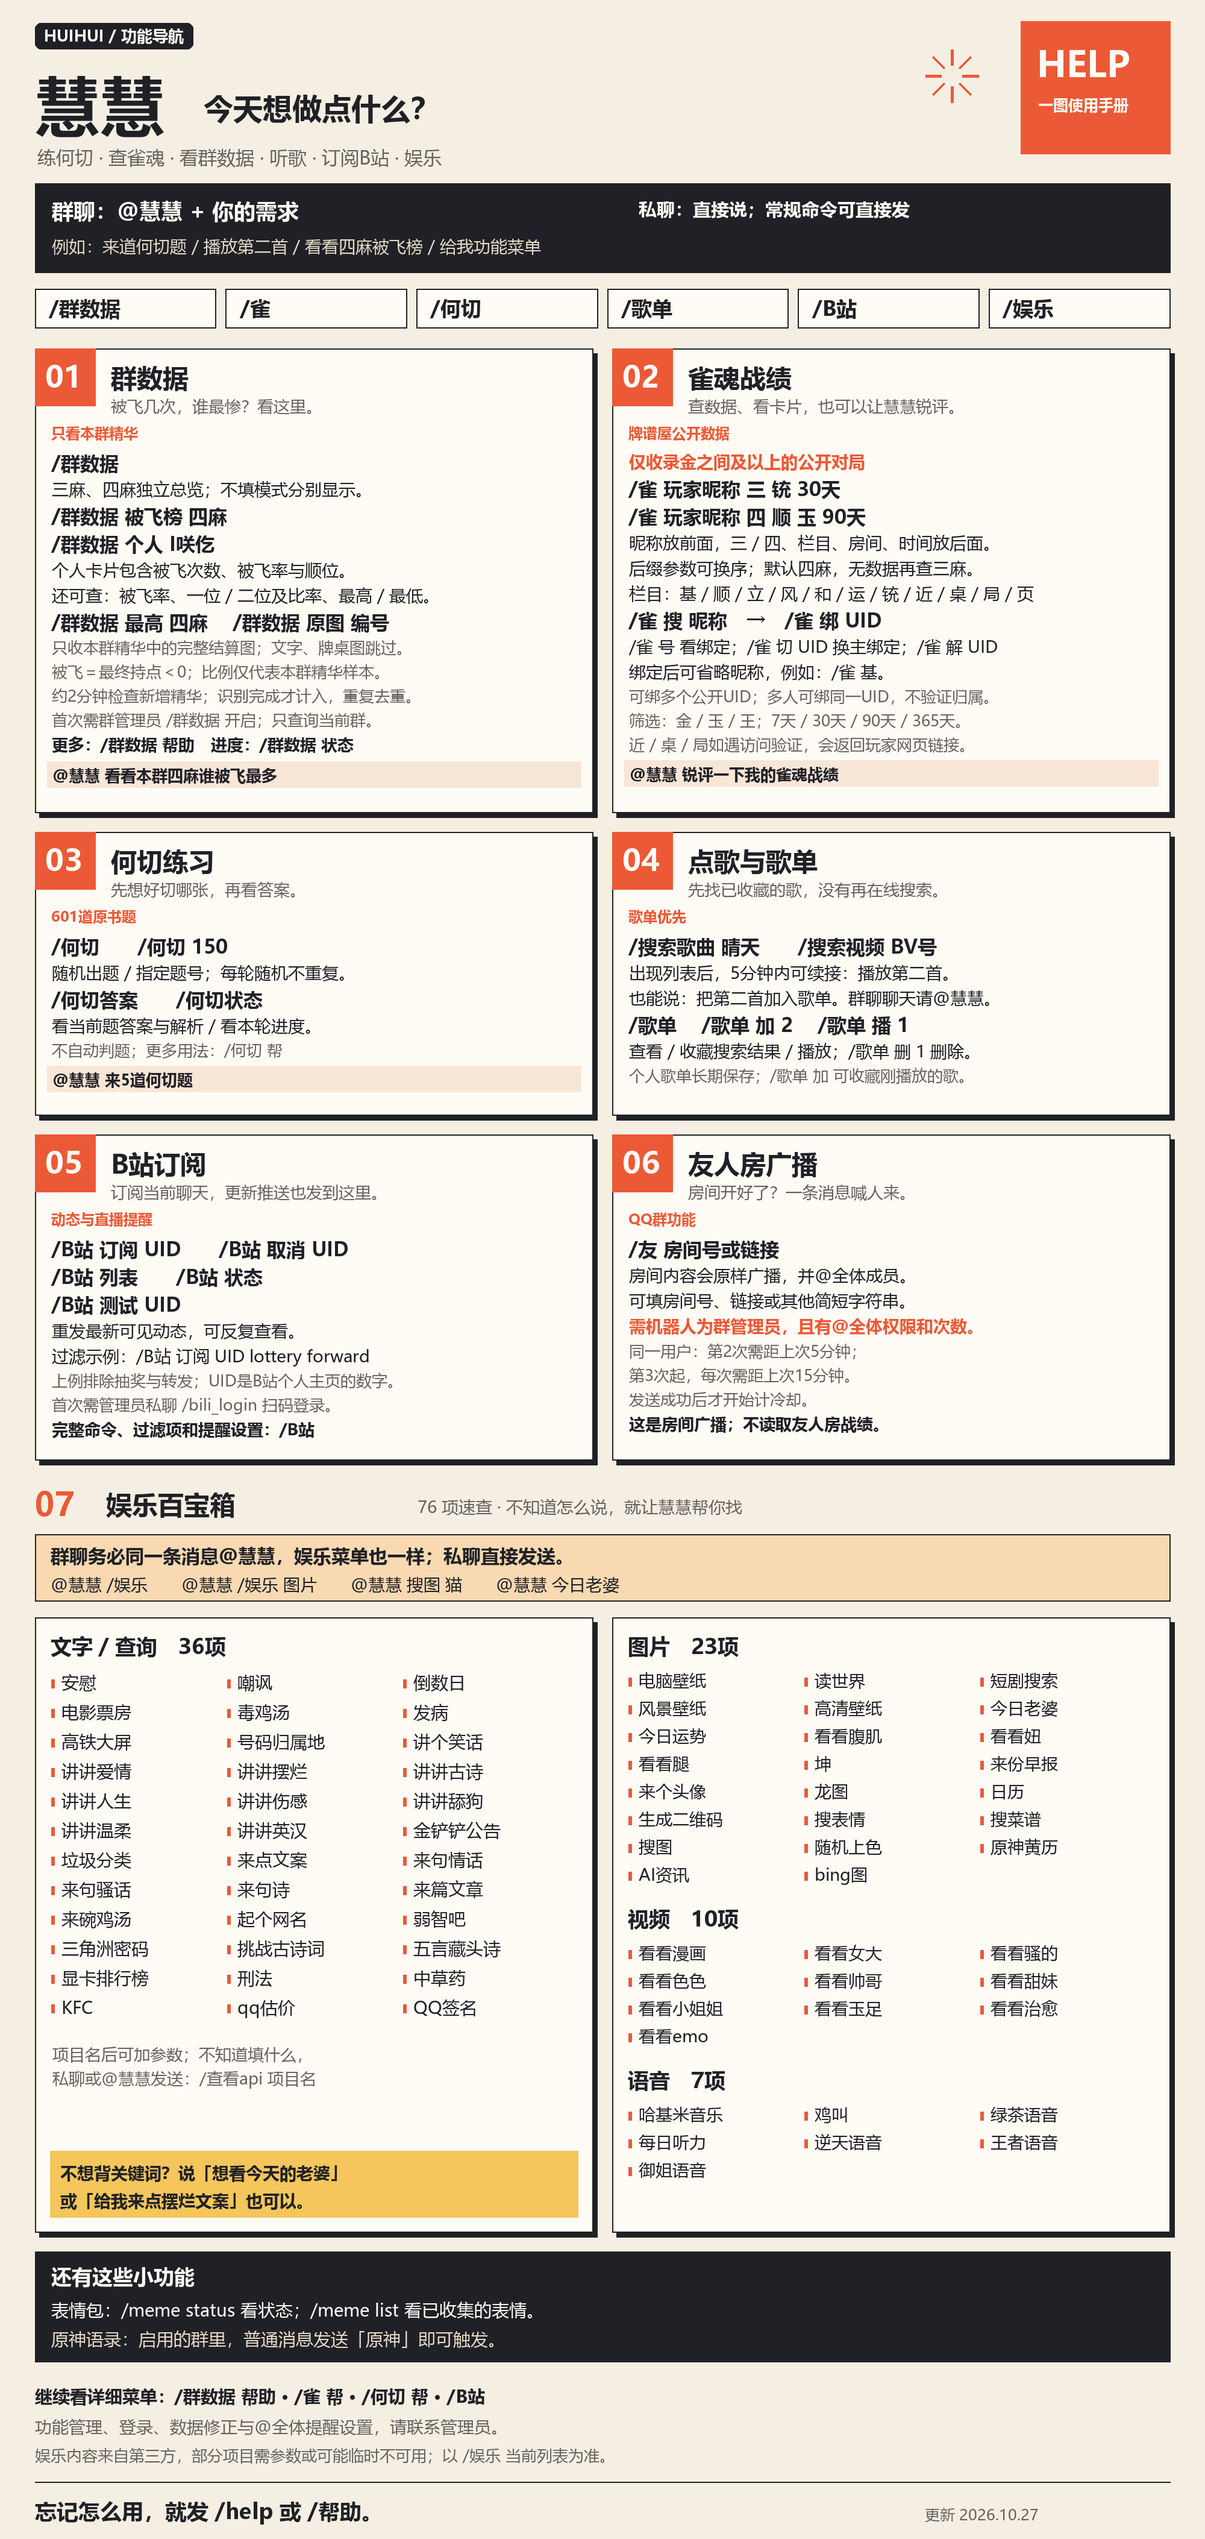
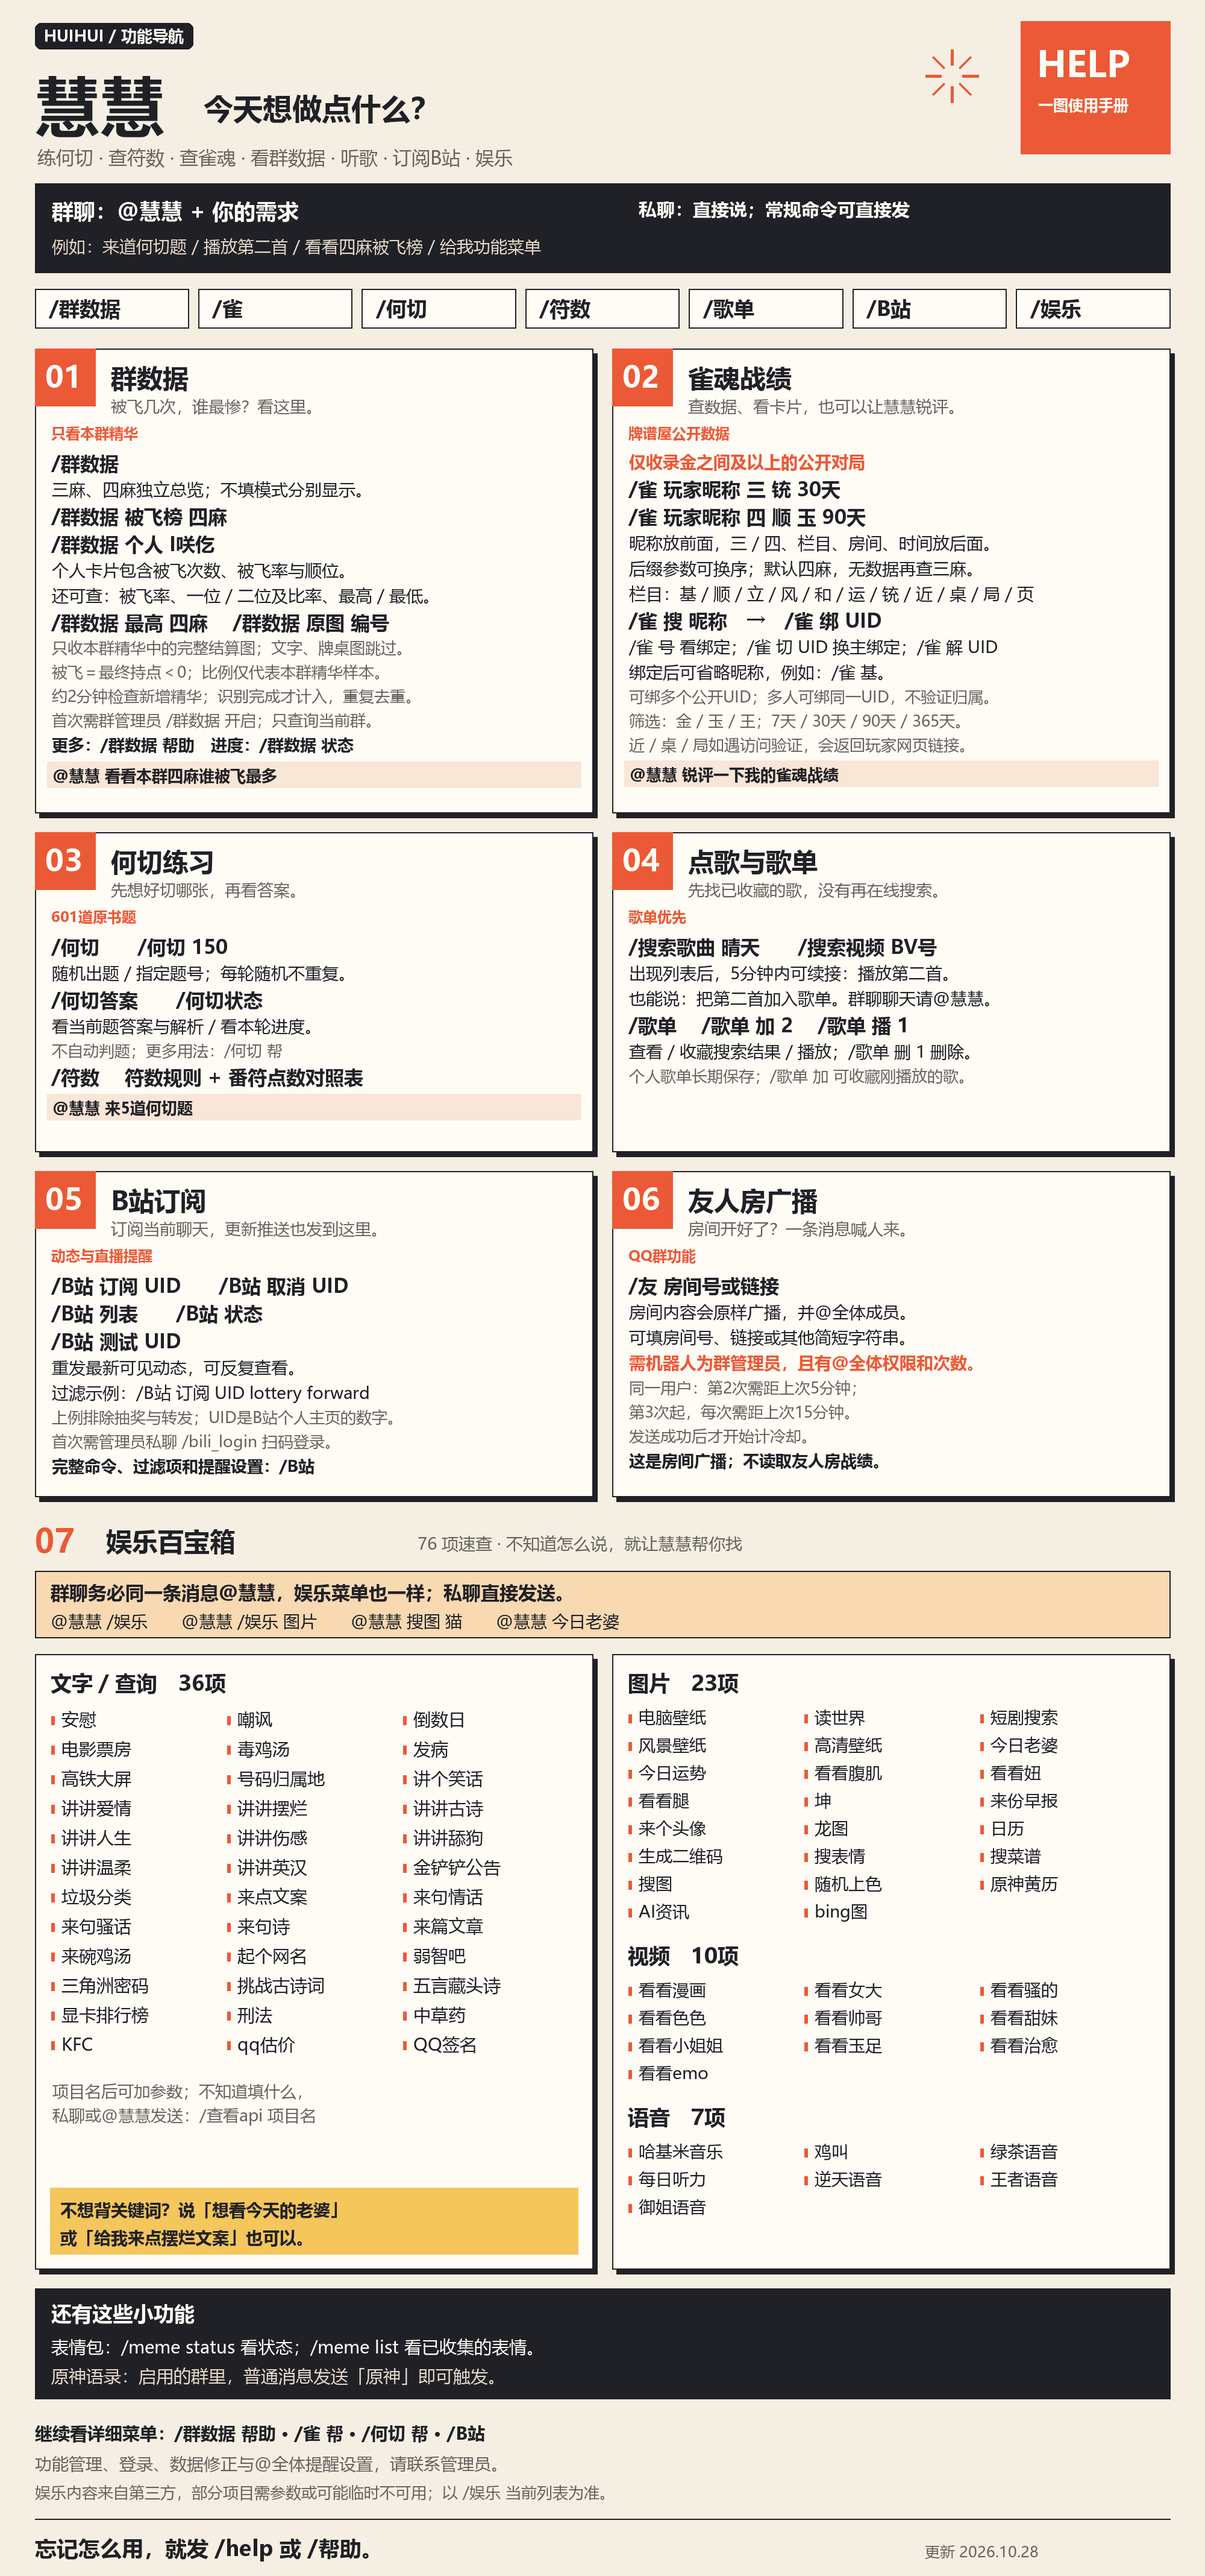
Add fu reference command with two original tables

Changed region(s): [[0.031, 0.0311, 0.992, 0.9953], [0.806, 0.0933, 0.899, 0.1244], [0.868, 0.0311, 0.93, 0.0622]]

diff --git a/tools/build_user_help.py b/tools/build_user_help.py
@@ -8,7 +8,7 @@ from PIL import Image,ImageDraw,ImageFont
 ROOT=Path(__file__).resolve().parents[1]
 W=2000;M=58;GAP=32;CW=(W-M*2-GAP)//2
 PAPER='#F5EFE3';INK='#202126';ORANGE='#EC5936';MUTED='#66635F';LINE='#D8CFC0';WHITE='#FFFCF6';GOLD='#F4C65B'
-EDITION='2026.10.27'
+EDITION='2026.10.28'
 MODULES=[
  {'id':'01','title':'群数据','tag':'只看本群精华','subtitle':'被飞几次，谁最惨？看这里。','height':770,'lines':[
   ('cmd','/群数据'),('small','三麻、四麻独立总览；不填模式分别显示。'),
@@ -36,14 +36,15 @@ MODULES=[
   ('note','筛选：金 / 玉 / 王；7天 / 30天 / 90天 / 365天。'),
   ('note','近 / 桌 / 局如遇访问验证，会返回玩家网页链接。')],
   'example':'@慧慧 锐评一下我的雀魂战绩'},
- {'id':'03','title':'何切练习','tag':'601道原书题','subtitle':'先想好切哪张，再看答案。','height':470,'lines':[
+ {'id':'03','title':'何切练习','tag':'601道原书题','subtitle':'先想好切哪张，再看答案。','height':530,'lines':[
   ('cmd','/何切　　/何切 150'),
   ('small','随机出题 / 指定题号；每轮随机不重复。'),
   ('cmd','/何切答案　　/何切状态'),
   ('small','看当前题答案与解析 / 看本轮进度。'),
-  ('note','不自动判题；更多用法：/何切 帮')],
+  ('note','不自动判题；更多用法：/何切 帮'),
+  ('cmd','/符数　 符数规则 + 番符点数对照表')],
   'example':'@慧慧 来5道何切题'},
- {'id':'04','title':'点歌与歌单','tag':'歌单优先','subtitle':'先找已收藏的歌，没有再在线搜索。','height':470,'lines':[
+ {'id':'04','title':'点歌与歌单','tag':'歌单优先','subtitle':'先找已收藏的歌，没有再在线搜索。','height':530,'lines':[
   ('cmd','/搜索歌曲 晴天　　/搜索视频 BV号'),
   ('small','出现列表后，5分钟内可续接：播放第二首。'),
   ('small','也能说：把第二首加入歌单。群聊聊天请@慧慧。'),
@@ -140,7 +141,7 @@ def render(path,catalog_path=None):
  # Editorial cover with a drawn magic burst: type stays crisp at original size.
  p.pill(M,38,'HUIHUI / 功能导航',WHITE,INK,26)
  p.text(M,100,'慧慧',108,True,width=650);p.text(M+280,146,'今天想做点什么？',49,True,width=1000)
- p.text(M+4,240,'练何切 · 查雀魂 · 看群数据 · 听歌 · 订阅B站 · 娱乐',31,color=MUTED,width=1600)
+ p.text(M+4,240,'练何切 · 查符数 · 查雀魂 · 看群数据 · 听歌 · 订阅B站 · 娱乐',31,color=MUTED,width=1600)
  d.rectangle((1694,35,1942,255),fill=ORANGE)
  p.text(1721,64,'HELP',60,True,WHITE,width=200);p.text(1723,156,'一图使用手册',25,True,WHITE,width=200)
  # Star / rays are decoration rather than an image-generated character.
@@ -151,8 +152,8 @@ def render(path,catalog_path=None):
  p.text(M+28,324,'群聊：@慧慧 + 你的需求',36,True,WHITE,width=900)
  p.text(1060,326,'私聊：直接说；常规命令可直接发',30,True,WHITE,width=850)
  p.text(M+28,389,'例如：来道何切题 / 播放第二首 / 看看四麻被飞榜 / 给我功能菜单',28,color='#E6D9C8',width=1800)
- commands=['/群数据','/雀','/何切','/歌单','/B站','/娱乐']
- qw=(W-2*M-5*16)/6
+ commands=['/群数据','/雀','/何切','/符数','/歌单','/B站','/娱乐']
+ qw=(W-2*M-(len(commands)-1)*16)/len(commands)
  for i,s in enumerate(commands):
   x=M+i*(qw+16);d.rectangle((x,479,x+qw,544),fill=WHITE,outline=INK,width=2);p.text(x+24,488,s,34,True,width=qw-40)
  y=578

diff --git a/main.py b/main.py
@@ -366,7 +366,7 @@ class MahjongHelperPlugin(Star):
         """发送机器人已有的图片功能菜单或帮助，不新增功能。
 
         Args:
-            section(string): all总功能菜单，entertainment娱乐菜单，mahjong雀魂菜单，quiz何切帮助，bilibili或bili为B站订阅帮助，group_data为群精华对局统计帮助。
+            section(string): all总功能菜单，entertainment娱乐菜单，mahjong雀魂菜单，quiz何切帮助，bilibili或bili为B站订阅帮助，group_data为群精华对局统计帮助，fu为符数规则和番符点数速查图。
             category(string): 娱乐分类，可留空，或文字、图片、视频、语音。
         """
         if not self._claim_ai_action(event):
@@ -387,10 +387,12 @@ class MahjongHelperPlugin(Star):
             results = self.koromo_menu(event, "")
         elif section == "quiz":
             results = self.nanikiru(event, "帮助")
+        elif section in {"fu", "符数", "符数表", "点数表"}:
+            results = self.fu_reference(event)
         elif section == "all":
             results = self.user_help(event)
         else:
-            await event.send(event.plain_result("可查看总功能菜单、娱乐菜单、雀魂菜单、何切帮助、B站订阅帮助或群数据帮助。"))
+            await event.send(event.plain_result("可查看总功能菜单、娱乐菜单、雀魂菜单、何切帮助、B站订阅帮助、群数据帮助或符数速查图。"))
             return
         async for result in results:
             await event.send(result)
@@ -488,6 +490,17 @@ class MahjongHelperPlugin(Star):
             return
         yield event.chain_result([Comp.Image.fromFileSystem(str(image))])
 
+    @filter.command("符数")
+    async def fu_reference(self, event: AstrMessageEvent):
+        """发送符数速算规则与四麻番符点数对照表，两张原图按顺序发送。"""
+        event.stop_event()
+        images = [self.plugin_dir / "data" / "fu" / name
+                  for name in ("rules.png", "points.png")]
+        if not all(path.is_file() for path in images):
+            yield event.plain_result("符数参考图暂时不可用，请联系管理员。")
+            return
+        yield event.chain_result([Comp.Image.fromFileSystem(str(path)) for path in images])
+
     def _koromo_token(self) -> str | None:
         configured = str(self.config.get("koromo_token", "") or "").strip()
         if configured:
@@ -523,6 +536,7 @@ class MahjongHelperPlugin(Star):
             "/何切 [题号]｜随机出题或查看指定题",
             "/何切答案 [题号]｜查看原书答案",
             "/何切状态｜查看当前题和本轮进度",
+            "/符数｜符数速算规则与四麻番符点数表（两张原图）",
             "",
             "【雀魂玩家】",
             "/友 房间号或链接｜在群里 @全体广播友人房",

diff --git a/docs/慧慧使用手册.md b/docs/慧慧使用手册.md
@@ -1,6 +1,6 @@
 # 慧慧功能使用手册
 
-更新：2026.10.27。群聊自然语言请求请@慧慧，私聊直接说；普通命令可直接发。娱乐命令和菜单在群聊也要@慧慧。
+更新：2026.10.28。群聊自然语言请求请@慧慧，私聊直接说；普通命令可直接发。娱乐命令和菜单在群聊也要@慧慧。
 
 ## 群数据
 
@@ -49,6 +49,7 @@
 - `/何切答案　　/何切状态`
 - 看当前题答案与解析 / 看本轮进度。
 - 不自动判题；更多用法：/何切 帮
+- `/符数　 符数规则 + 番符点数对照表`
 
 @慧慧 来5道何切题
 

diff --git a/README.md b/README.md
@@ -147,3 +147,8 @@ python tools/build_user_help.py --pool ../astrbot_plugin_apis/presets/api_pool_d
 ```
 
 生成器检查文字宽度、模块高度和画布边界。替换 `data/help_one_page.png` 即可更新菜单图。
+
+
+## 符数速查
+
+发送 `/符数`，按顺序返回两张原图：符数速算规则、四麻番数×符数×点数对照表。群聊、私聊均可使用，无需额外配置。也可私聊或@慧慧请求“看看符数表”，通过现有菜单工具发送同样的两张图。图片由用户提供，保持原始文件内容。
